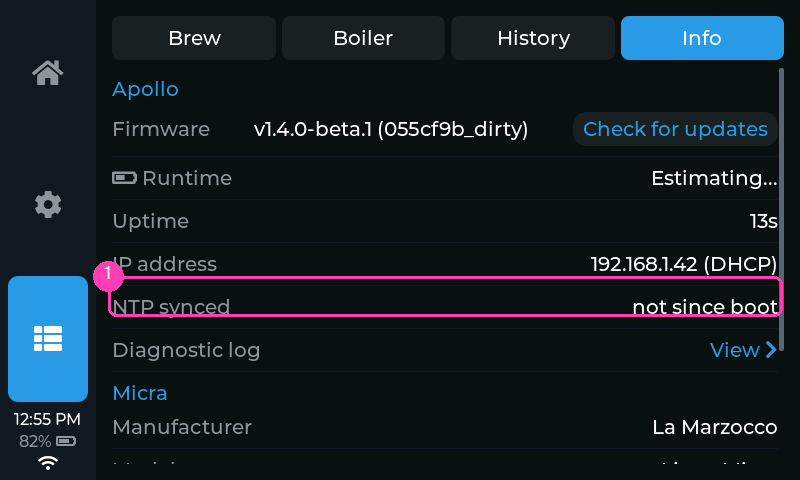
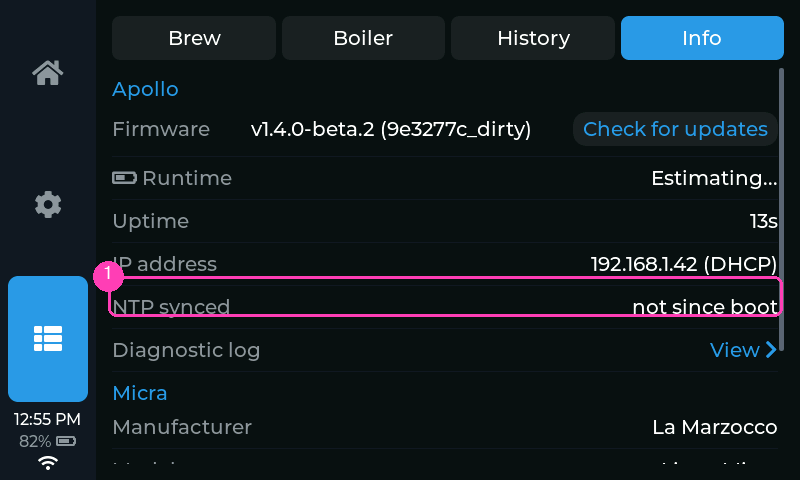
release: v1.4.0-beta.2

Changed region(s): [[0.3125, 0.25, 0.6875, 0.3125]]

diff --git a/include/version.h b/include/version.h
@@ -9,7 +9,7 @@
 
 namespace fw {
 
-inline constexpr const char* kVersion = "1.4.0-beta.1";
+inline constexpr const char* kVersion = "1.4.0-beta.2";
 
 // Release builds prove kVersion == the tag at compile time (build_check.h).
 #ifdef APOLLO_EXPECT_VERSION
